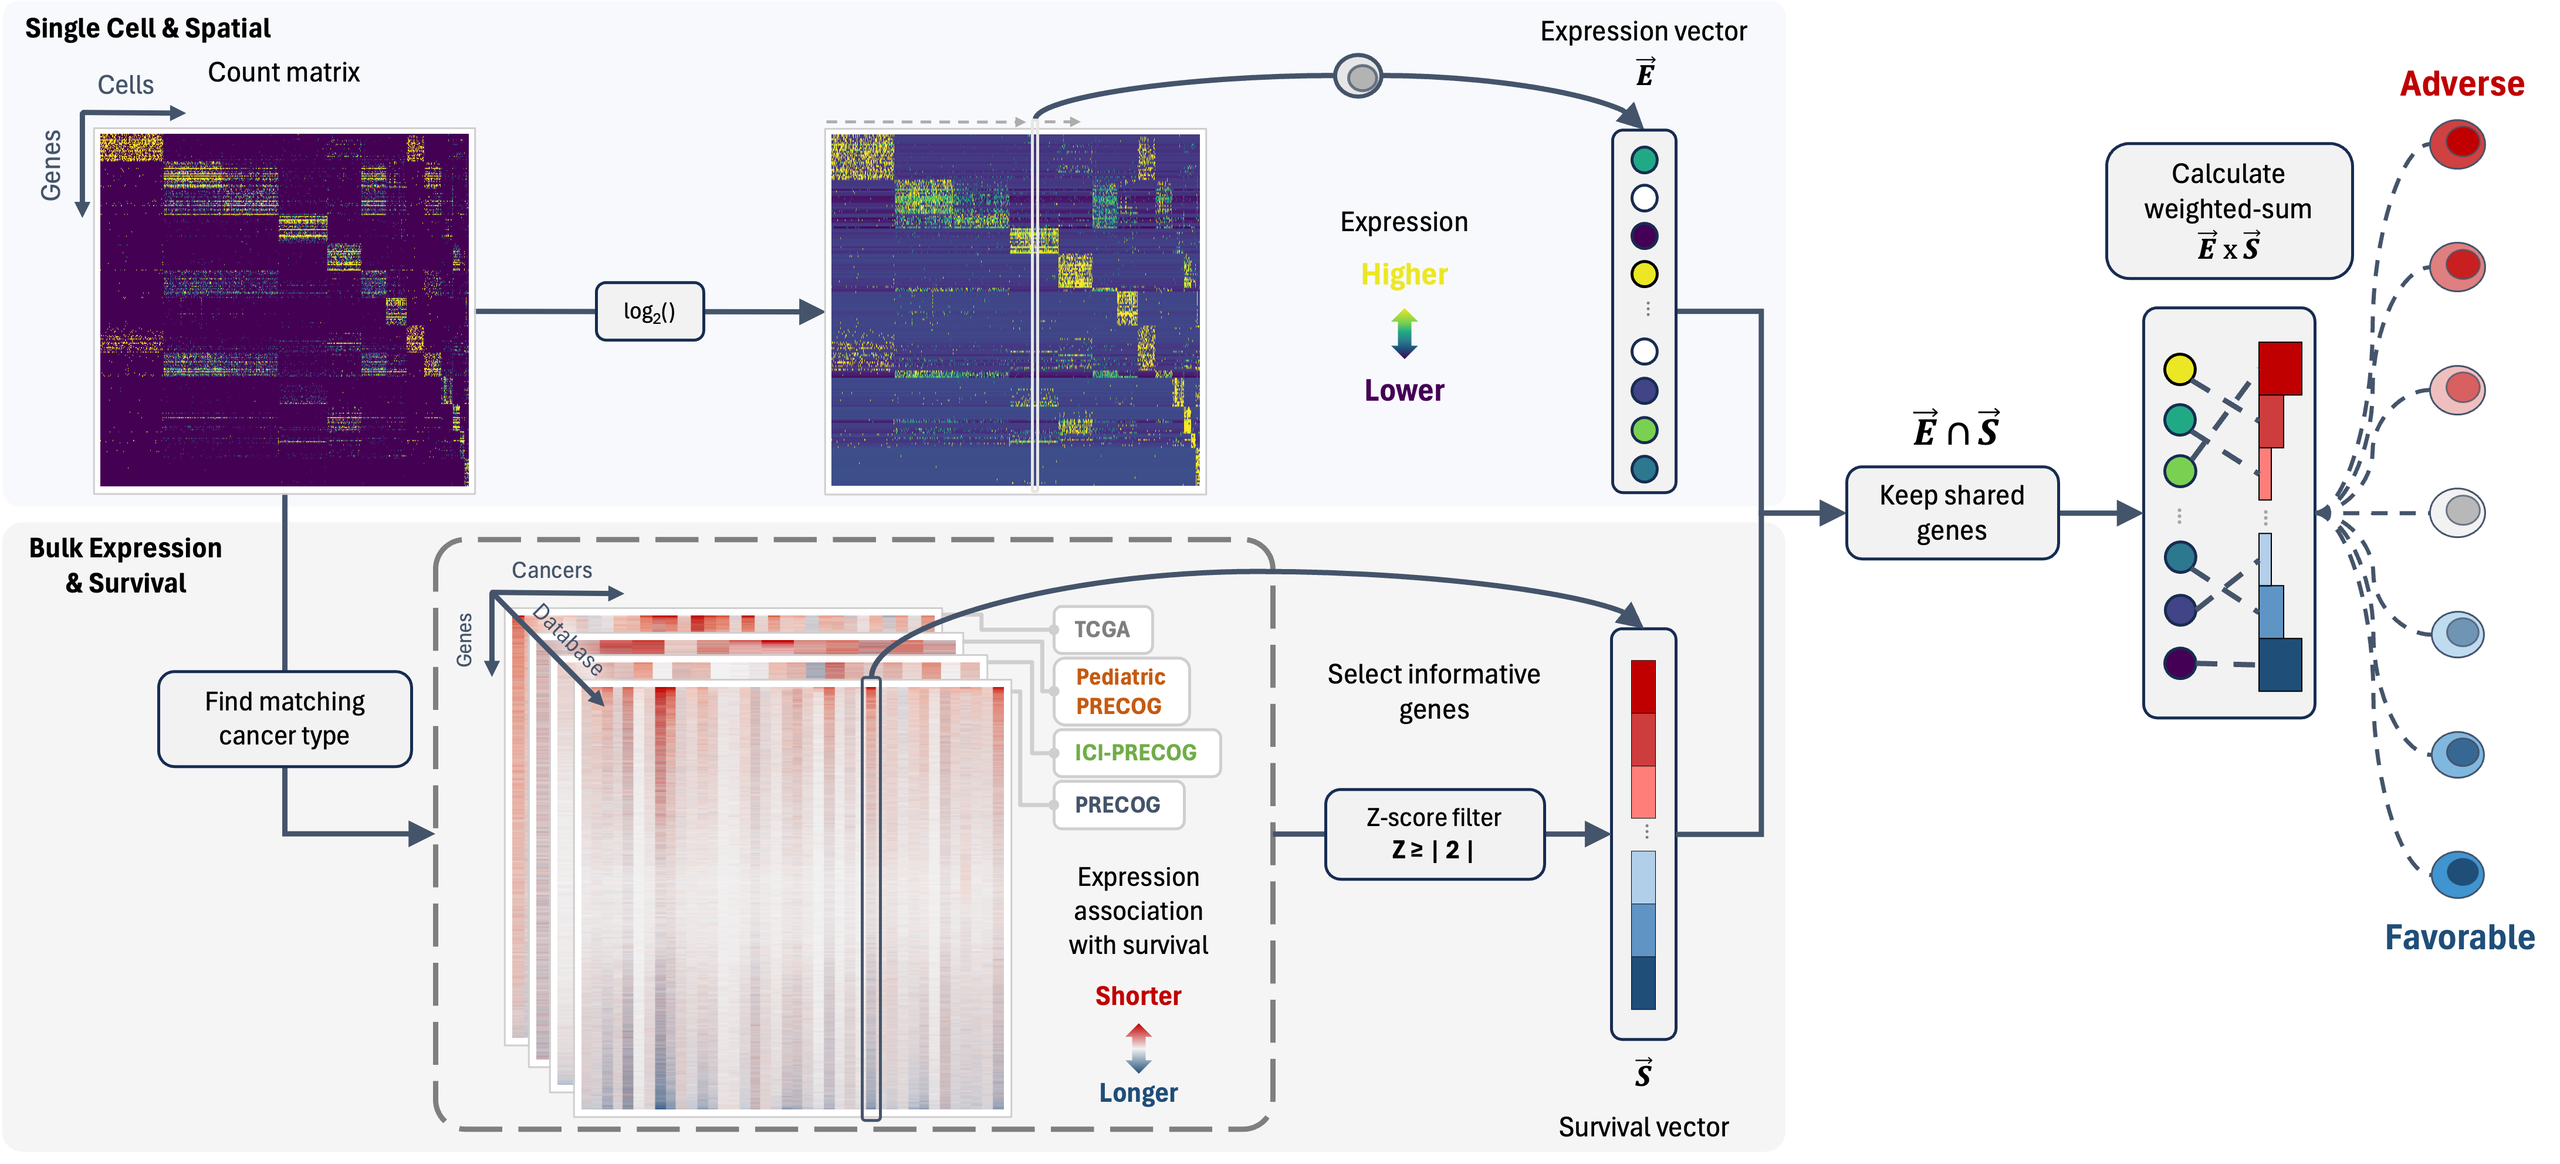
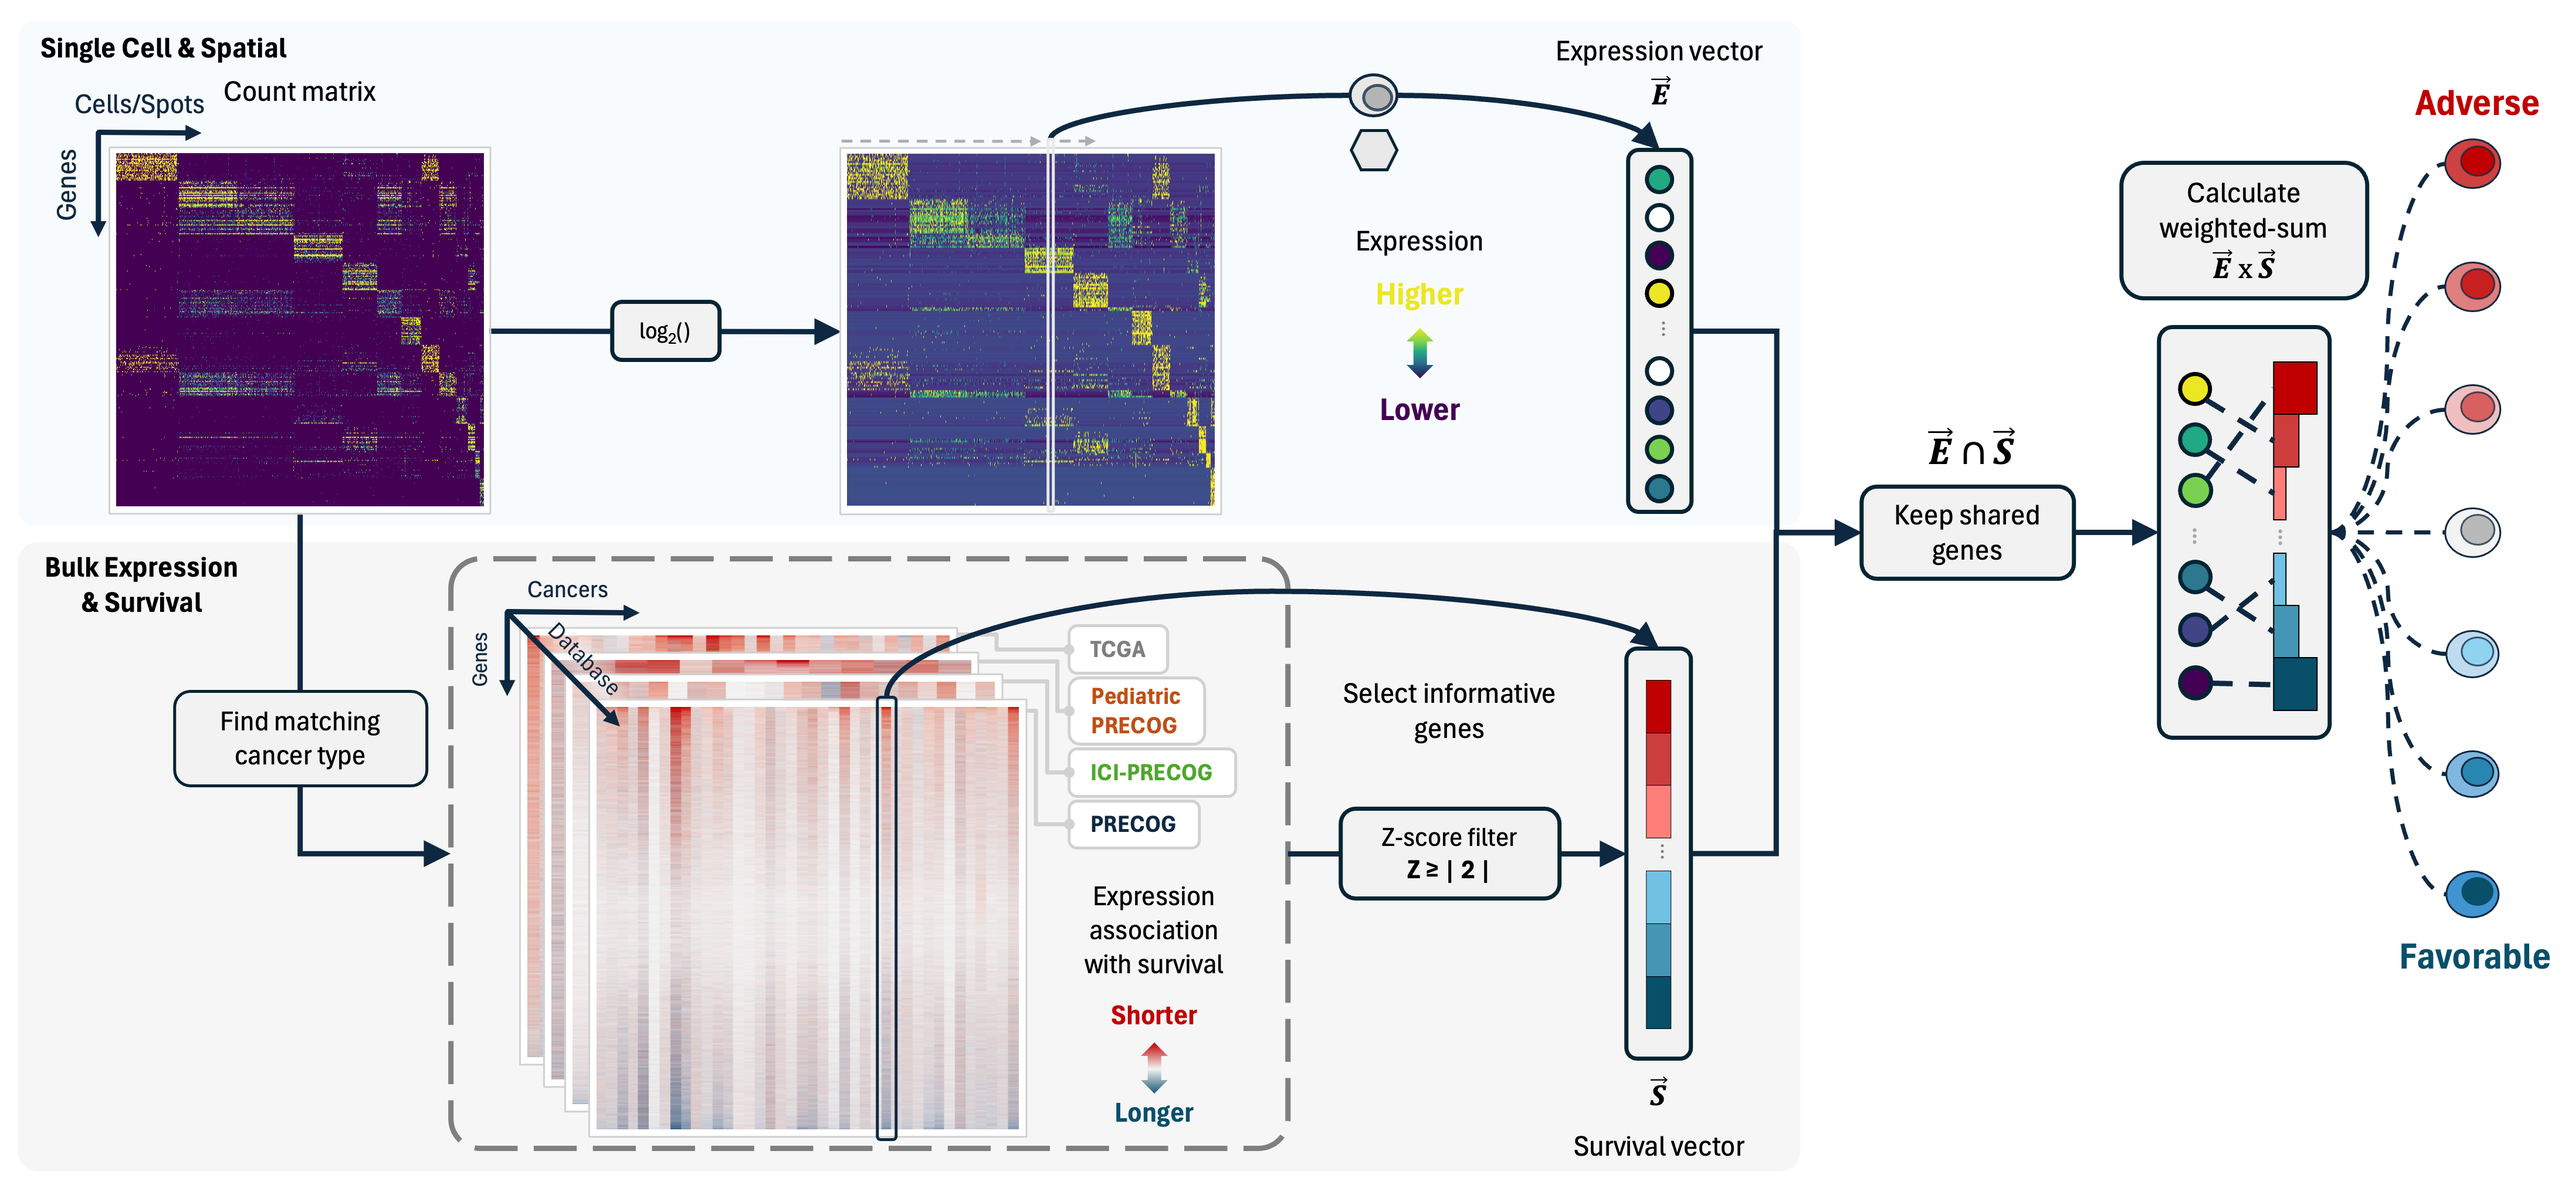
Codecov, README, vignettes, and workflow updates
- Add test-coverage workflow (covr + Codecov)
- Add Codecov badge and bulk env vars to pkgdown workflow
- README: hex logo align/width for GitHub, codecov badge
- Vignettes README: Google Drive instructions and bulk URL env vars
- Bulk vignettes: download from URL when PHENOMAPR_GSE205154_*_URL set
- Update inst/figures PNGs; remove clinical_PDAC_GSE205154_metastatic.rds

Made-with: Cursor

diff --git a/vignettes/README.md b/vignettes/README.md
@@ -1,57 +1,88 @@
 # Vignette Data
 
-The single-cell and spatial transcriptomics vignettes require preprocessed RDS files that are too large for GitHub. You can either place them locally or load them from a URL (e.g. Google Drive).
+The vignettes use data files that are too large for GitHub. You can place them locally or load them from URLs (e.g. Google Drive).
 
-## Option 1: Place files locally
+**PhenoMapR data on Google Drive:** [Vignettes folder](https://drive.google.com/drive/folders/1rKGZBX7sa_Iq8AJb1wcxiRc3oD6v6B5n) — subfolders **Bulk_Expression**, **Single_Cell**, and **Spatial_Transcriptomics** contain the same files used by the vignettes.
 
-Place the RDS files in `vignettes/`, `Vignettes/`, or the package root:
+---
 
-| File | Vignette |
-|------|----------|
-| `PAAD_GSE111672_seurat.rds` | Single-cell (GSE111672) |
-| `PAAD_CRA001160_seurat.rds` | Single-cell (CRA001160) |
-| `HT270P1-S1H2Fc2U1Z1Bs1-H2Bs2-Test_processed.rds` | Spatial transcriptomics |
+## Option 1: Place files locally (simplest)
 
-## Option 2: Load from URL (Google Drive, Zenodo, etc.)
+Download from the [Drive Vignettes folder](https://drive.google.com/drive/folders/1rKGZBX7sa_Iq8AJb1wcxiRc3oD6v6B5n) (open each subfolder and download the files), then put them in `vignettes/`, `Vignettes/`, or the package root:
 
-Set environment variables with **direct download URLs** before knitting or running the vignettes:
+| File | Drive subfolder | Vignette |
+|------|-----------------|----------|
+| `PAAD_GSE111672_seurat.rds` | Single_Cell | Single-cell (GSE111672) |
+| `PAAD_CRA001160_seurat.rds` | Single_Cell | Single-cell (CRA001160) |
+| `HT270P1-S1H2Fc2U1Z1Bs1-H2Bs2-Test_processed.rds` | Spatial_Transcriptomics | Spatial transcriptomics |
+| `GSE205154.GPL20301.matrix.txt` | Bulk_Expression | Bulk survival & Custom reference |
+| `GSE205154.info.txt` | Bulk_Expression | Bulk survival & Custom reference |
+
+---
+
+## Option 2: Load from URL (Google Drive direct links)
+
+The single-cell and spatial vignettes can **download** files from URLs if you set environment variables. Use **direct download** URLs (see below for how to get them from Google Drive).
+
+### Step 1: Get each file’s direct download link from Drive
+
+1. Open the [Vignettes folder](https://drive.google.com/drive/folders/1rKGZBX7sa_Iq8AJb1wcxiRc3oD6v6B5n) on Google Drive.
+2. Open **Single_Cell**, then for each of `PAAD_GSE111672_seurat.rds` and `PAAD_CRA001160_seurat.rds`:
+   - Right-click the file → **Share** → set to **Anyone with the link** (Viewer).
+   - Copy the link. It looks like: `https://drive.google.com/file/d/XXXXXXXXXX/view?usp=sharing`
+   - The **file ID** is the part between `/d/` and `/view` (e.g. `XXXXXXXXXX`).
+   - The **direct download URL** is: `https://drive.google.com/uc?export=download&id=XXXXXXXXXX`
+3. Do the same for the file in **Spatial_Transcriptomics** (`HT270P1-S1H2Fc2U1Z1Bs1-H2Bs2-Test_processed.rds`).
+4. (Optional) For **Bulk_Expression**, get direct download URLs for `GSE205154.GPL20301.matrix.txt` and `GSE205154.info.txt` the same way.
+
+### Step 2: Set the URLs in R and run the vignettes
+
+In R, **before** knitting or sourcing the vignettes, run (replace the `id=...` parts with your actual file IDs):
 
 ```r
-# In R, before running vignettes:
+# Replace YOUR_GSE111672_ID, YOUR_CRA001160_ID, YOUR_SPATIAL_ID (and optionally bulk IDs) with the IDs from Step 1.
 Sys.setenv(
-  PHENOMAPR_GSE111672_RDS_URL = "https://drive.google.com/uc?export=download&id=YOUR_FILE_ID",
-  PHENOMAPR_CRA001160_RDS_URL = "https://drive.google.com/uc?export=download&id=YOUR_FILE_ID",
-  PHENOMAPR_SPATIAL_RDS_URL  = "https://drive.google.com/uc?export=download&id=YOUR_FILE_ID"
+  PHENOMAPR_GSE111672_RDS_URL   = "https://drive.google.com/uc?export=download&id=YOUR_GSE111672_ID",
+  PHENOMAPR_CRA001160_RDS_URL   = "https://drive.google.com/uc?export=download&id=YOUR_CRA001160_ID",
+  PHENOMAPR_SPATIAL_RDS_URL     = "https://drive.google.com/uc?export=download&id=YOUR_SPATIAL_ID",
+  PHENOMAPR_GSE205154_MATRIX_URL = "https://drive.google.com/uc?export=download&id=YOUR_MATRIX_ID",
+  PHENOMAPR_GSE205154_INFO_URL   = "https://drive.google.com/uc?export=download&id=YOUR_INFO_ID"
 )
+
+# Then knit or run the vignettes, e.g.:
+# rmarkdown::render("vignettes/gse111672-single-cell.Rmd")
+# rmarkdown::render("vignettes/spatial-transcriptomics.Rmd")
+# rmarkdown::render("vignettes/gse205154-bulk-survival.Rmd")
+# rmarkdown::render("vignettes/gse205154-custom-reference.Rmd")
 ```
 
-Or in your shell (e.g. before `R CMD build` or CI):
+Or set them in the shell before starting R:
 
 ```bash
-export PHENOMAPR_GSE111672_RDS_URL="https://drive.google.com/uc?export=download&id=YOUR_FILE_ID"
-export PHENOMAPR_CRA001160_RDS_URL="https://drive.google.com/uc?export=download&id=YOUR_FILE_ID"
-export PHENOMAPR_SPATIAL_RDS_URL="https://drive.google.com/uc?export=download&id=YOUR_FILE_ID"
+export PHENOMAPR_GSE111672_RDS_URL="https://drive.google.com/uc?export=download&id=YOUR_GSE111672_ID"
+export PHENOMAPR_CRA001160_RDS_URL="https://drive.google.com/uc?export=download&id=YOUR_CRA001160_ID"
+export PHENOMAPR_SPATIAL_RDS_URL="https://drive.google.com/uc?export=download&id=YOUR_SPATIAL_ID"
+export PHENOMAPR_GSE205154_MATRIX_URL="https://drive.google.com/uc?export=download&id=YOUR_MATRIX_ID"
+export PHENOMAPR_GSE205154_INFO_URL="https://drive.google.com/uc?export=download&id=YOUR_INFO_ID"
+R
 ```
 
-### Google Drive direct links
+### Large files on Google Drive
 
-1. Upload the RDS file to Google Drive.
-2. Right-click → Share → set to "Anyone with the link".
-3. Copy the link. The file ID is the long string between `/d/` and `/view`:
-   - `https://drive.google.com/file/d/FILE_ID_HERE/view?usp=sharing`
-4. Use: `https://drive.google.com/uc?export=download&id=FILE_ID_HERE`
+For large files, Google may show a warning page instead of downloading. If the automatic download fails:
+
+- **Easiest:** Use Option 1 — download the file in your browser from Drive and place it in `vignettes/`.
+- Or use the [gdown](https://github.com/wkentaro/gdown) Python tool with the file ID: `gdown FILE_ID`.
 
 ### GitHub Actions (CI)
 
-Add these as repository secrets, then reference them in your workflow:
+Add the direct download URLs as repository secrets (e.g. `PHENOMAPR_GSE111672_RDS_URL`, etc.), then in your workflow set:
 
 ```yaml
 env:
   PHENOMAPR_GSE111672_RDS_URL: ${{ secrets.PHENOMAPR_GSE111672_RDS_URL }}
   PHENOMAPR_CRA001160_RDS_URL: ${{ secrets.PHENOMAPR_CRA001160_RDS_URL }}
   PHENOMAPR_SPATIAL_RDS_URL: ${{ secrets.PHENOMAPR_SPATIAL_RDS_URL }}
+  PHENOMAPR_GSE205154_MATRIX_URL: ${{ secrets.PHENOMAPR_GSE205154_MATRIX_URL }}
+  PHENOMAPR_GSE205154_INFO_URL: ${{ secrets.PHENOMAPR_GSE205154_INFO_URL }}
 ```
-
-### Zenodo / other hosts
-
-Use the direct download URL (not a landing page). For Zenodo, use the "Download" link for the file.

diff --git a/README.md b/README.md
@@ -1,8 +1,9 @@
-# <a href='https://brooksbenard.github.io/PhenoMapR'><img src='man/figures/PhenoMapR_logo.png' alt='' class='logo' style='float:right; height:120px; width:auto; margin-top:0.5em;' /></a> PhenoMapR
+# <a href='https://brooksbenard.github.io/PhenoMapR'><img src='man/figures/PhenoMapR_logo.png' alt='PhenoMapR' width='120' align='right' style='float:right; height:120px; width:auto; margin-top:0.5em;' class='logo' /></a> PhenoMapR
 
 <!-- badges: start -->
 
 [![R-CMD-check](https://github.com/brooksbenard/PhenoMapR/actions/workflows/R-CMD-check.yaml/badge.svg)](https://github.com/brooksbenard/PhenoMapR/actions)
+[![codecov](https://codecov.io/gh/brooksbenard/PhenoMapR/graph/badge.svg)](https://codecov.io/gh/brooksbenard/PhenoMapR)
 [![Lifecycle: Experimental](https://img.shields.io/badge/lifecycle-experimental-teal.svg)](https://lifecycle.r-lib.org/articles/stages.html#experimental)
 [![License: Stanford](https://img.shields.io/badge/License-Stanford-yellow.svg)](LICENSE)
 [![Documentation](https://img.shields.io/badge/docs-pkgdown-blue.svg)](https://brooksbenard.github.io/PhenoMapR)
